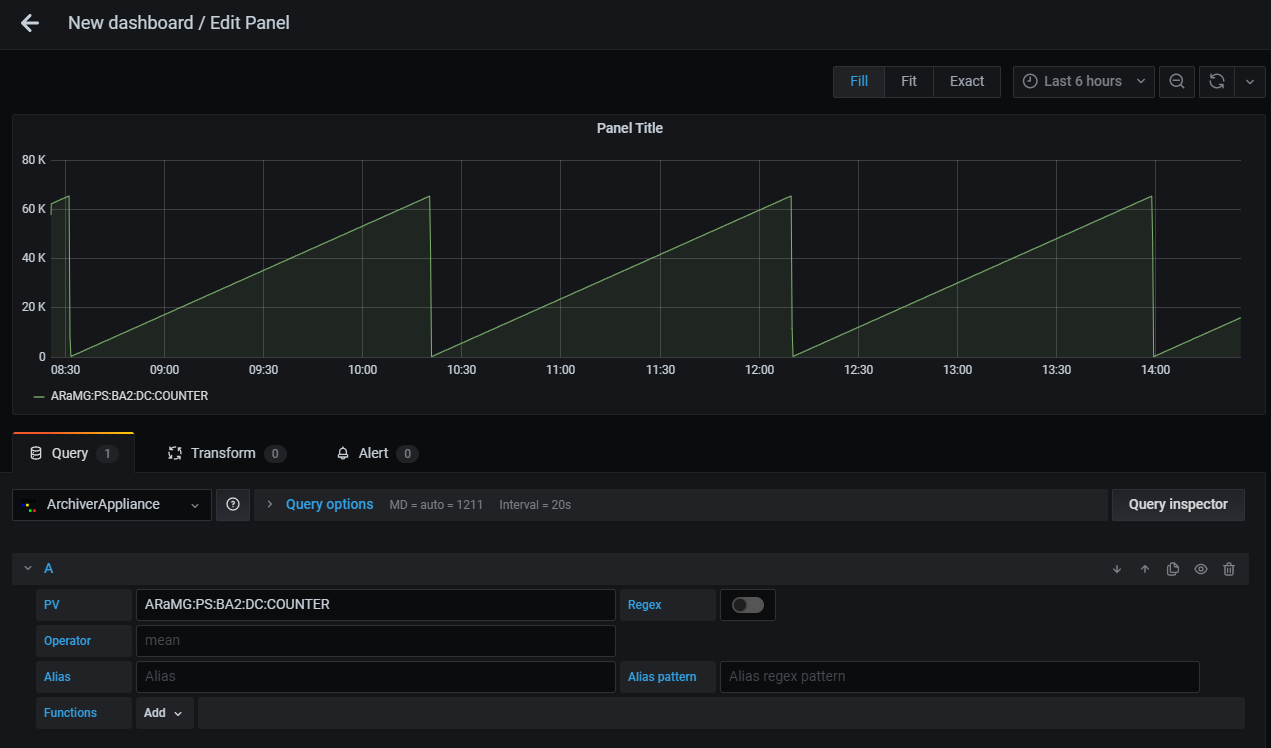
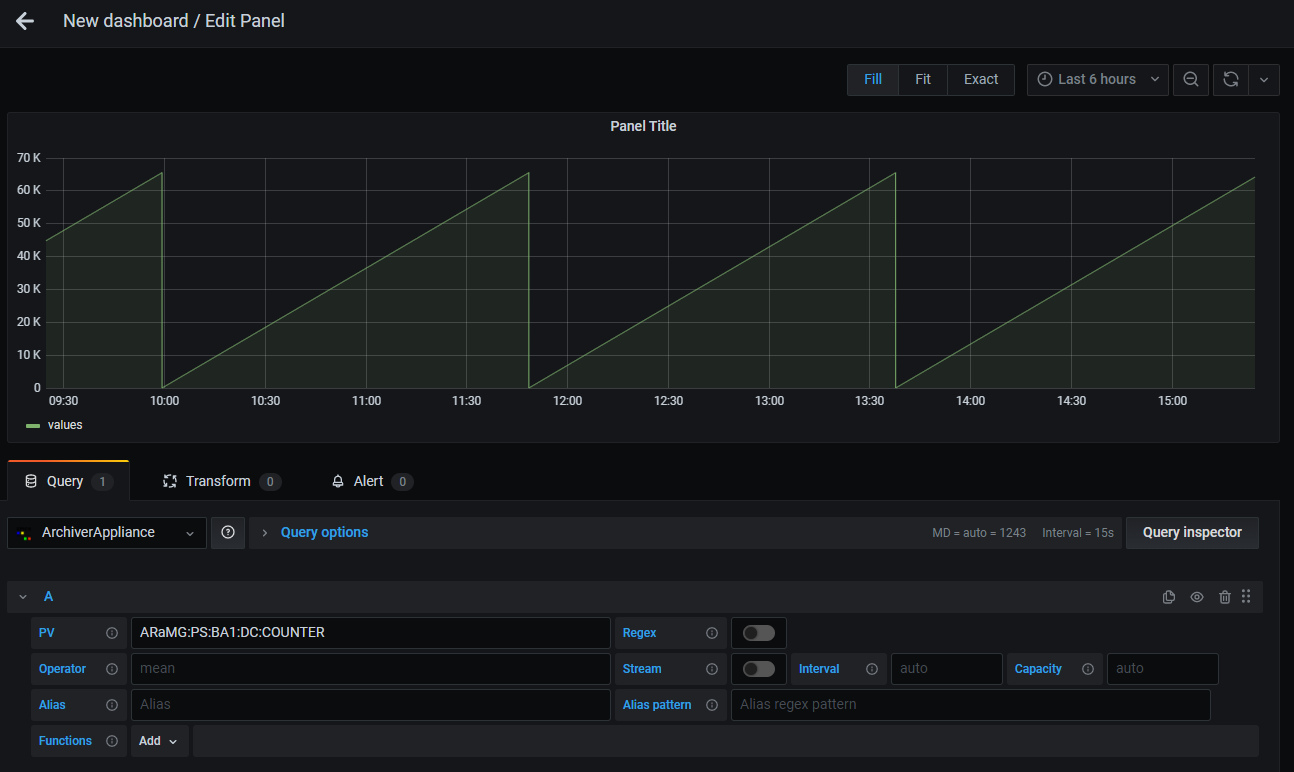
doc: Update for 1.3.0

diff --git a/docs/development.md b/docs/development.md
@@ -1,0 +1,121 @@
+# Development
+## Development setup
+
+This data source plugin consists of both frontend and backend components.
+
+### Front-end Development
+
+Node version v12.x is recommended. If you're new to the Node.js ecosystem, [Node Version Manager](https://github.com/nvm-sh/nvm) is a good place to start for managing different Node.js installations and environments. 
+
+[grafana-toolkit](https://github.com/grafana/grafana/tree/master/packages/grafana-toolkit) is used to develop the plugin. Please refer grafana-toolkit documentation for more information.
+
+1. Begin by installing Yarn ([https://yarnpkg.com/](https://yarnpkg.com/))
+    ```BASH
+    npm install -g yarn
+    ```
+
+2. Install dependencies
+    ```BASH
+    yarn install
+    ```
+
+3. Build plugin in development mode or run in watch mode
+    ```BASH
+    yarn dev
+    ```
+    or
+    ```BASH
+    yarn watch
+    ```
+
+4. Build plugin in production mode
+    ```BASH
+    yarn build
+    ```
+
+### Back-end Development
+
+If the Mage build tool is not already installed, you may install it using the installation instructions on the [Mage homepage](https://magefile.org/)
+
+1. Update [Grafana plugin SDK for Go](https://grafana.com/docs/grafana/latest/developers/plugins/backend/grafana-plugin-sdk-for-go/) dependency to the latest minor version:
+
+    ```bash
+    go get -u github.com/grafana/grafana-plugin-sdk-go
+    ```
+
+2. Build backend plugin binaries for Linux, Windows and Darwin:
+    ```BASH
+    mage -v
+    ```
+
+3. List all available Mage targets for additional commands:
+    ```BASH
+    mage -l
+    ```
+
+### Test environment with Docker Compose
+Thanks to [pklaus / docker-archiver-appliance](https://github.com/pklaus/docker-archiver-appliance) and [pklaus / archiver-appliance-with-example-ioc](https://github.com/pklaus/archiver-appliance-with-example-ioc), the test environment is available with Docker Compose.
+
+```bash
+docker-compose up
+```
+
+The following containers are runinng after `docker-compse up`.
+
+| Name | Description |
+|---------------|-------------|
+| **grafana** | Runs a Grafana server. |
+| **archappl** | Runs a EPICS Archiver Appliance. |
+| **redis** | Runs a datastore for the persistance of the appliance configuration. |
+| **example** | Runs a example EPICS IOC to be archived. |
+
+To set up the Archiver Appliance, open [http://localhost:17665/mgmt/ui/index.html](http://localhost:17665/mgmt/ui/index.html). You can add the PVs served by the example IOC on this page.
+Enter the following lines in the input field and then clicking the `Archive` button.
+the Archive will be start a few minuites later.
+
+```
+root:circle:tick
+root:circle:step
+root:circle:period
+root:line:b
+root:aiExample
+root:aiExample1
+root:ai1
+root:aiExample2
+root:ai2
+root:aiExample3
+root:ai3
+root:EXAMPLE:version
+root:compressExample
+root:circle:angle
+root:line:a
+root:circle:x
+root:circle:y
+root:calcExample
+root:calcExample1
+root:calc1
+root:calcExample2
+root:calc2
+root:calcExample3
+root:calc3
+```
+
+![Archiver-Appliance-mgmt-page](./img/aa-test-mgmt-page.png)
+
+To add a data source, open Grafana ([http://localhost:3000](http://localhost:3000)). On the data sources page, add a data source and set URL as `http://archappl:17665/retrieval`.
+
+![test-configuration](./img/aa-test-configuration.png)
+
+The following is a example query with this test environment.
+
+![test-query](./img/aa-test-query.png)
+
+## Build documentation
+This documentation is build by Sphinx. Follow below steps to build documentation.
+
+```
+python -m venv env
+source env/bin/activate
+pip install sphinx commonmark recommonmark sphinx_rtd_theme sphinx-markdown-tables
+make html
+```

diff --git a/README.md b/README.md
@@ -13,6 +13,8 @@ See [Archiver Appliance site](https://slacmshankar.github.io/epicsarchiver_docs/
 - Data retrieval with data processing (See [Archiver Appliance User Guide](https://slacmshankar.github.io/epicsarchiver_docs/userguide.html) for processing of data)
 - Using PV names for Grafana variables
 - Transform your data with processing functions
+- Live update with stream feature
+- Find and notify problems with alerting feature
 
 ## Installing the plugin
 
@@ -22,7 +24,7 @@ See [Archiver Appliance site](https://slacmshankar.github.io/epicsarchiver_docs/
 
 2. Unzip the contents in the Grafana plugins folder.
 
-3. This plugin is unsigned. It must be specially listed by name in the Grafana `configure.ini` file to allow Grafana to use it. Add `https://github.com/n-wbrown/archiver-datasource-backend` to the `allow_loading_unsigned_plugins` parameter in the `[plugins]` section.
+3. This plugin is unsigned. It must be specially listed by name in the Grafana `grafana.ini` file to allow Grafana to use it. Add `sasaki77-archiverappliance-datasource` to the `allow_loading_unsigned_plugins` parameter in the `[plugins]` section.
 
 ### Install using Git
 
@@ -48,6 +50,9 @@ This section lists the available configuration options for the Archiver Applianc
 | **PV** | Set PV name to be visualized. It is allowed to set multiple PVs by using Regular Expressoins alternation pattern (e.g. `(PV:1\|PV:2)`). |
 | **Regex** | Enable/disable Regex mode. Refer [Select Multiple PVs by Regex](https://sasaki77.github.io/archiverappliance-datasource/query.html#select-multiple-pvs-by-regex). |
 | **Operator** | Controls processing of data during data retrieval (Default: `mean`). Refer [Archiver Appliance User Guide](https://slacmshankar.github.io/epicsarchiver_docs/userguide.html) about processing of data. Special operator `raw` and `last` are also available. `raw` allows to retrieve the data without processing. `last` allows to retrieve the last data in the specified time range. |
+| **Stream** | Enable/Disable Stream mode. Stream allows to periodically update the data without refreshing the dashboard. The difference data from the last updated values is only retrieved.|
+| **Interval** | Streaming interval in milliseconds. You can also use a number with unit. e.g. `1s`, `1m`, `1h`. The default is determined by a width of panel and time range. |
+| **Capacity** | The stream data is stored in a circular buffer. Capacity determines the buffer size. The default is detemined by a initial data size. | 
 | **Alias** | Set alias for legend. |
 | **Alias pattern** | Set regular expressoin pattern to use PV name for legend alias. Refer [Legend Alias with Regex Pattern](https://sasaki77.github.io/archiverappliance-datasource/query.html#legend-alias-with-regex-pattern) |
 | **Function** | Apply processing function for retrieved data. Refer [Apply Processing Functions](https://sasaki77.github.io/archiverappliance-datasource/query.html#apply-processing-functions) |

diff --git a/docs/installation.md b/docs/installation.md
@@ -4,63 +4,15 @@ This plugin is not registered in Grafana Plugin Repository.
 Please put this plugin into your grafana plugins directory;
 the default path is `/var/lib/grafana/plugins`.
 
-## Install with git
+## Install using releases
 
-Clone the codes with tag specication from GitHub.
-
-```bash
-git clone -b <verion> https://github.com/sasaki77/archiverappliance-datasource
-```
-
-For example, you can install v1.0.0 as following.
-
-```bash
-git clone -b 1.0.0 https://github.com/sasaki77/archiverappliance-datasource
-```
-
-Restart Grafana after cloning.
-
-```bash
-systemctl restart grafana-server
-```
-
-``` Warning:: Master branch has no longer dist folder from v1.0.0. Therefore, you can't install it with master branch without build.
-```
-
-### Update
-To update the plugin, fetch repository from GitHub and checkout with version tag.
-
-```bash
-git fetch
-git checkout -b <version> <version>
-```
-
-Verion list is available with `git tag -l`.
-
-```bash
-$ git tag -l
-0.1.0
-0.1.1
-0.1.2
-1.0.0
-```
-
-## Install with .tar.gz file or .zip file
-Download the `.tar.gz` file or `.zip` file and extract it into your grafana plugins directory.
-
-Download link is available on [GitHub release page](https://github.com/sasaki77/archiverappliance-datasource/releases).
-
-For example, you can install v1.0.0 as following.
-
-```
-wget https://github.com/sasaki77/archiverappliance-datasource/archive/1.0.0.tar.gz
-tar -zxvf 1.0.0.tar.gz
-```
-
-Restart Grafana.
-
-```bash
-systemctl restart grafana-server
-```
+1. Download a pre-built release from the [releases page](https://github.com/sasaki77/archiverappliance-datasource/releases).
+2. Unzip the contents in the Grafana plugins folder. The default path is `/var/lib/grafana/plugins`.
+3. This plugin is unsigned. It must be specially listed by name in the Grafana `grafana.ini` file to allow Grafana to use it. Add `sasaki77-archiverappliance-datasource` to the `allow_loading_unsigned_plugins` parameter in the `[plugins]` section.
 
 To update the plugin, follow the same step and remove the previous version.
+
+## Install using git
+We decided not to provide a git branch for a installation from version 1.3.0.
+
+To install using git, please refer the development page.

diff --git a/docs/query.md b/docs/query.md
@@ -83,3 +83,14 @@ To see details of each function, refer [Functions](functions).
 
 ``` Note:: Functions are applied from left to right.
 ```
+
+## Alerts
+The plugin supports alerts. Alerts allow you to notify and identify problems.
+You can create alerts on `Alert` tab.
+
+See [Grafana Documentation](https://grafana.com/docs/grafana/latest/alerting/) for more information about alerts.
+
+![Alerts](./img/aa-alerts.png)
+
+``` Note:: Go backend included in the plugin reteives archived data from Archiver Appliance to calculate alert condition.
+```

diff --git a/docs/index.rst b/docs/index.rst
@@ -20,6 +20,8 @@ Features
 * Data retrieval with data processing (See `Archiver Appliance User Guide <https://slacmshankar.github.io/epicsarchiver_docs/userguide.html>`_ for processing of data)
 * Using PV names for Grafana variables
 * Transform your data with processing functions
+* Live update with stream feature
+* Find and notify problems with alerting feature
 
 Documentation
 -------------
@@ -32,4 +34,5 @@ Documentation
    variables
    functions
    tips
+   development
    releases

diff --git a/docs/releases.md b/docs/releases.md
@@ -1,4 +1,17 @@
 # Release Notes
+## 1.3.0
+
+**2021-03-XX**
+
+### Features / Enhancements
+- Add stream feature for live updating
+- Add Go Backend and alerts feature
+- Add "Use Backend" button for configuration
+- Add help text for the query fields
+
+### Bug fixes
+- Fix text width of Function parmeter during focusing on it
+
 ## 1.2.0
 
 **2020-10-30**

diff --git a/CHANGELOG.md b/CHANGELOG.md
@@ -1,4 +1,14 @@
 # Change Log
+## 1.3.0 (2021-03-XX)
+
+### Features / Enhancements
+- Add stream feature for live updating
+- Add Go Backend and alerts feature
+- Add "Use Backend" button for configuration
+- Add help text for the query fields
+
+### Bug fixes
+- Fix text width of Function parmeter during focusing on it
 
 ## 1.2.0 (2020-10-30)
 

diff --git a/docs/configuration.md b/docs/configuration.md
@@ -25,3 +25,6 @@ more information.
 
 ### Auth
 Basically, no need to configure.
+
+### Misc
+- **Use Backend:** enable GO backend to retrieve the archive data for visualization. The archived data is retrieved and processed on Grafana server, then the data is sent to Grafana client.
